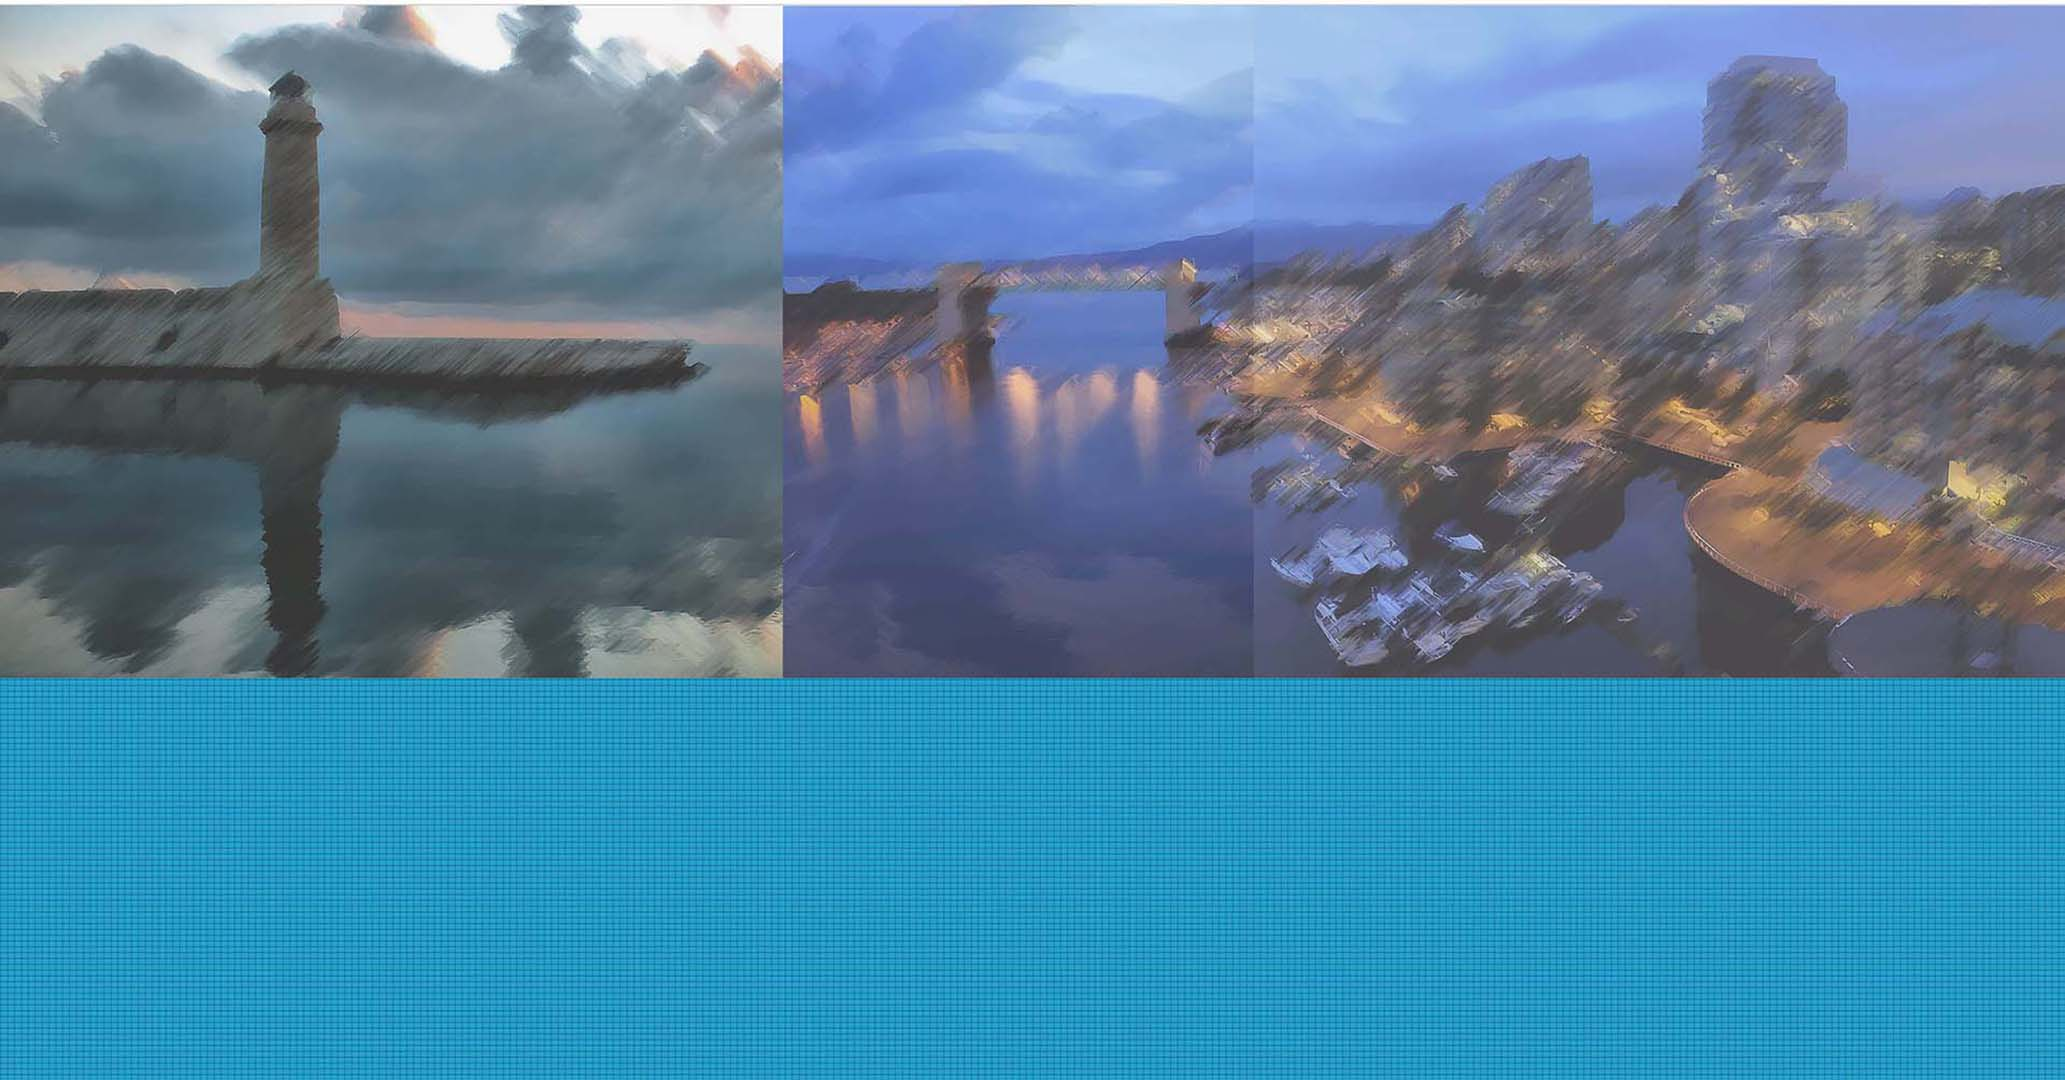
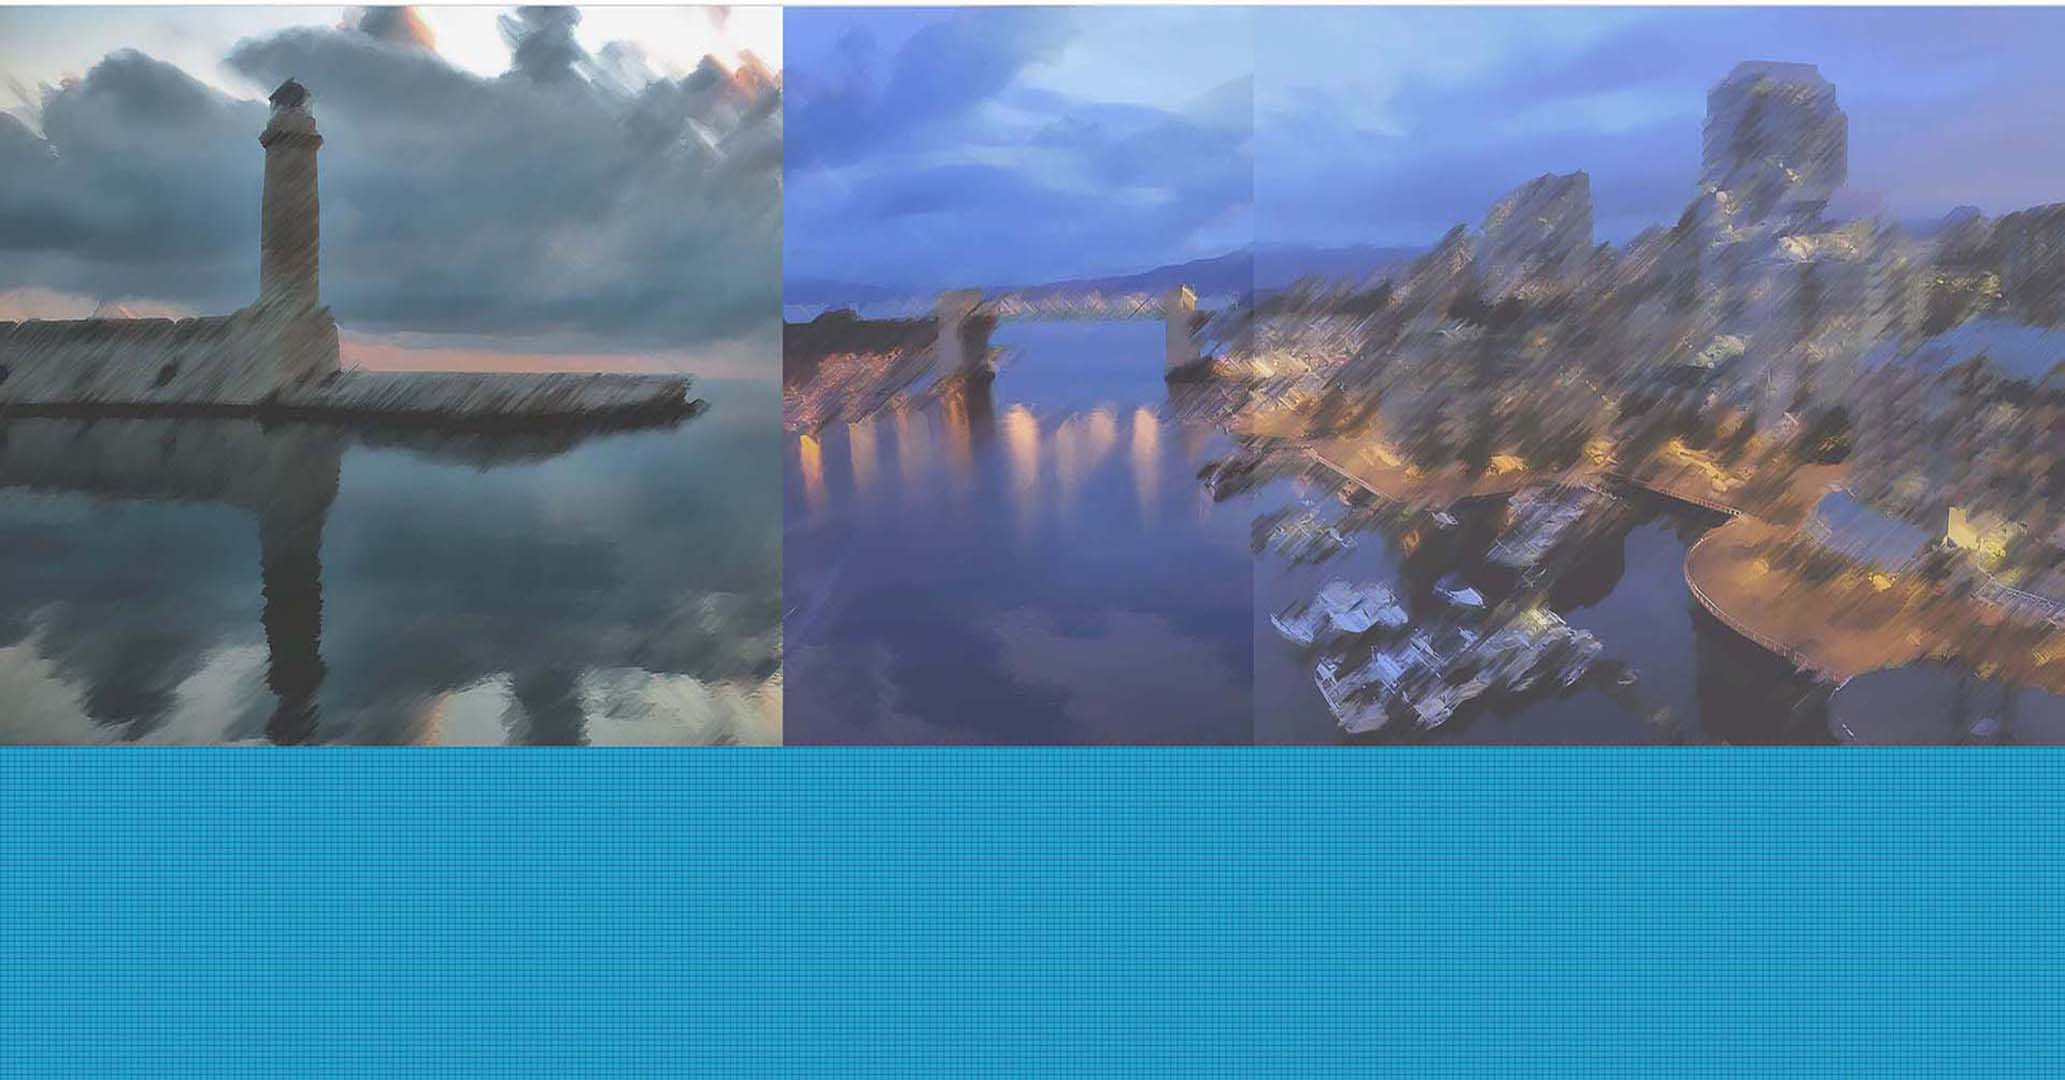
22:23

diff --git a/www/template/default/theme/rwg/rwg.css b/www/template/default/theme/rwg/rwg.css
@@ -26,6 +26,6 @@ body{background:url(images/rwg_bg.jpg) no-repeat center top;}
 			.banner_content a{ color:#FFF;}
 			.banner_contenttitle{ width:32px; height:140px; background:#0099cc; float:left; margin:-10px 0 0 10px; text-align:center; font-size:16px; letter-spacing:10px; font-weight:bold; color:#FFF; padding:5px 0 0 8px;}
 			.bcontent{ width:544px; height:118px; float:left; line-height:25px; font-size:16px; color:#FFF; padding:10px; overflow-y:auto; text-align:left;}
-.footer{ width:1080px; height:266px; float:left; margin:50px 0 0 0;}
+.footer{ width:1080px; height:266px; float:left; margin:90px 0 0 0;}
 .footer img{ float:left; margin:0 0 44px 9px;}
 }

diff --git a/www/template/default/view/article/rwg/rwg.html.php b/www/template/default/view/article/rwg/rwg.html.php
@@ -2,15 +2,20 @@
 <link href="<?php echo $themeRoot?>common/common_footer.css" rel="stylesheet" type="text/css" />
 <script>
 	$(document).ready(function(){
+		if($(window).width() < 1420){
+			var s_width = 474;
+		}else{
+			var s_width = 620;
+		}
 		var size = parseInt($(".banner_content").size());
-		var all_length = size*474;
-		var liwidth = 474;
+		var all_length = size*s_width;
+		var liwidth = s_width;
 		var winwidth = parseInt($(".banner_txt_scro").width());
 		var l_s = 0;
 		$("#left_nav").click(function(){
 			if(l_s < size-1){
 				l_s ++;
-				var length = -l_s*474;
+				var length = -l_s*s_width;
 				$(".banner_txt_scro").animate({left:length+'px'});
                 $("#banner_content_img").attr('src',$("#content_img_"+l_s).val());
 			}else{
@@ -21,7 +26,7 @@
 		$("#right_nav").click(function(){
 			if(l_s >0){
 				l_s --;
-				var length = -l_s*474;
+				var length = -l_s*s_width;
 				$(".banner_txt_scro").animate({left:length+'px'});
                 $("#banner_content_img").attr('src',$("#content_img_"+l_s).val());
 			}else{
